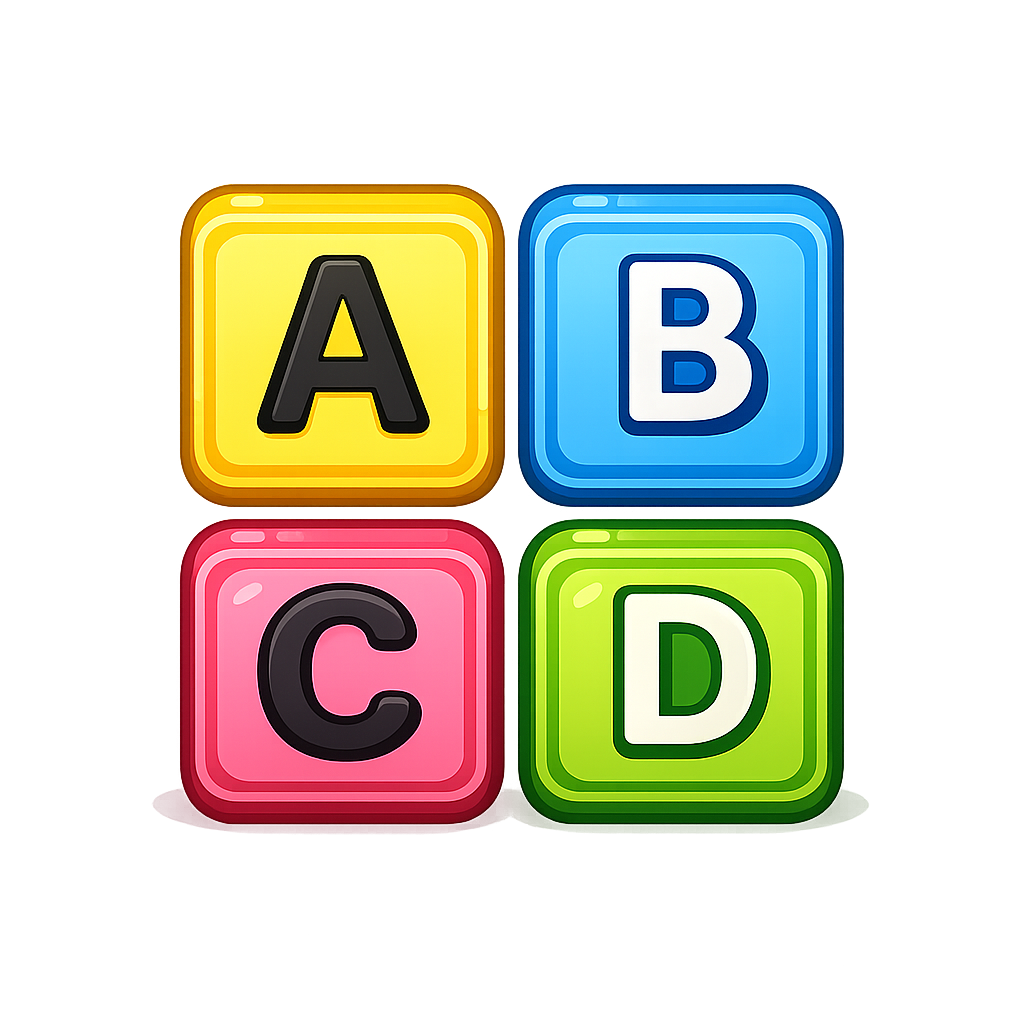
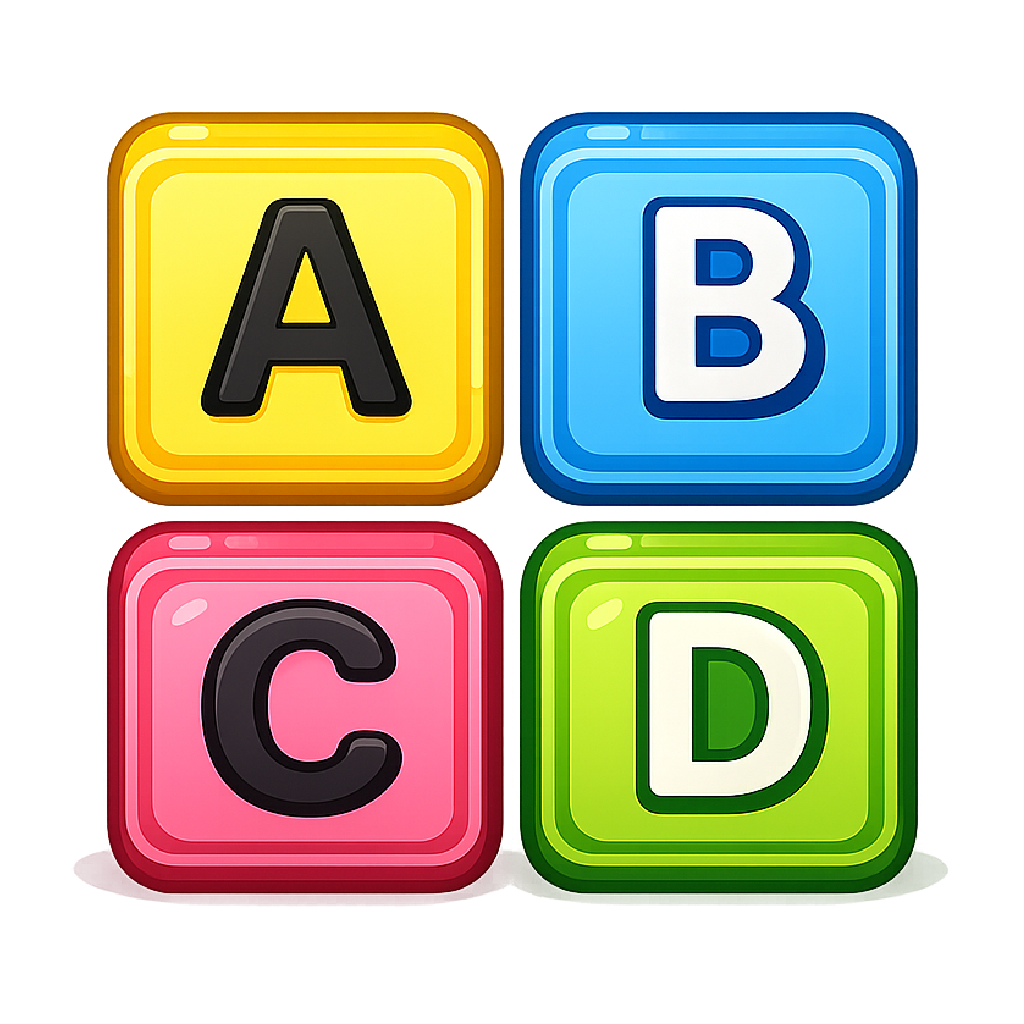
iconos

diff --git a/assets/i18n/es.js b/assets/i18n/es.js
@@ -361,7 +361,7 @@ window.translationsES = {
   "footer.copyright": "© 2026 PGL",
   "footer.about": "Sobre el Proyecto",
   "footer.terms": "Términos",
-  "footer.educational": "Juegos infantiles educativos | v2.0.0",
+  "footer.educational": "Juegos educativos infantiles | v2.0.0",
   "damas.config.title": "Configuración de partida",
   "damas.config.shuffleColors": "🎲 Sortear piezas",
   "damas.config.enableHints": "Activar sugerencia de movimientos",

diff --git a/assets/i18n/ca.js b/assets/i18n/ca.js
@@ -362,7 +362,7 @@ window.translationsCA = {
   "footer.copyright": "© 2026 PGL",
   "footer.about": "Sobre el Projecte",
   "footer.terms": "Termes",
-  "footer.educational": "Jocs infantils educatius | v2.0.0",
+  "footer.educational": "Jocs educatius infantils | v2.0.0",
   "damas.config.title": "Configuració de la partida",
   "damas.config.shuffleColors": "🎲 Sorteig de peces",
   "damas.config.enableHints": "Activar suggeriments de moviments",

diff --git a/assets/i18n/en.js b/assets/i18n/en.js
@@ -333,7 +333,7 @@ window.translationsEN = {
   "footer.copyright": "© 2026 PGL",
   "footer.about": "About the Project",
   "footer.terms": "Terms",
-  "footer.educational": "Educational children's games | v2.0.0",
+  "footer.educational": "Children's educational games | v2.0.0",
   "damas.config.title": "Game Configuration",
   "damas.config.shuffleColors": "🎲 Piece draw",
   "damas.config.enableHints": "Enable Move Hints",

diff --git a/index.html b/index.html
@@ -531,7 +531,7 @@
           </div>
 
           <p class="footer-version" data-i18n="footer.educational">
-            Aplicación Educativa | v2.0.0
+            Juegos Educativos Infantiles | v2.0.0
           </p>
         </div>
       </div>
